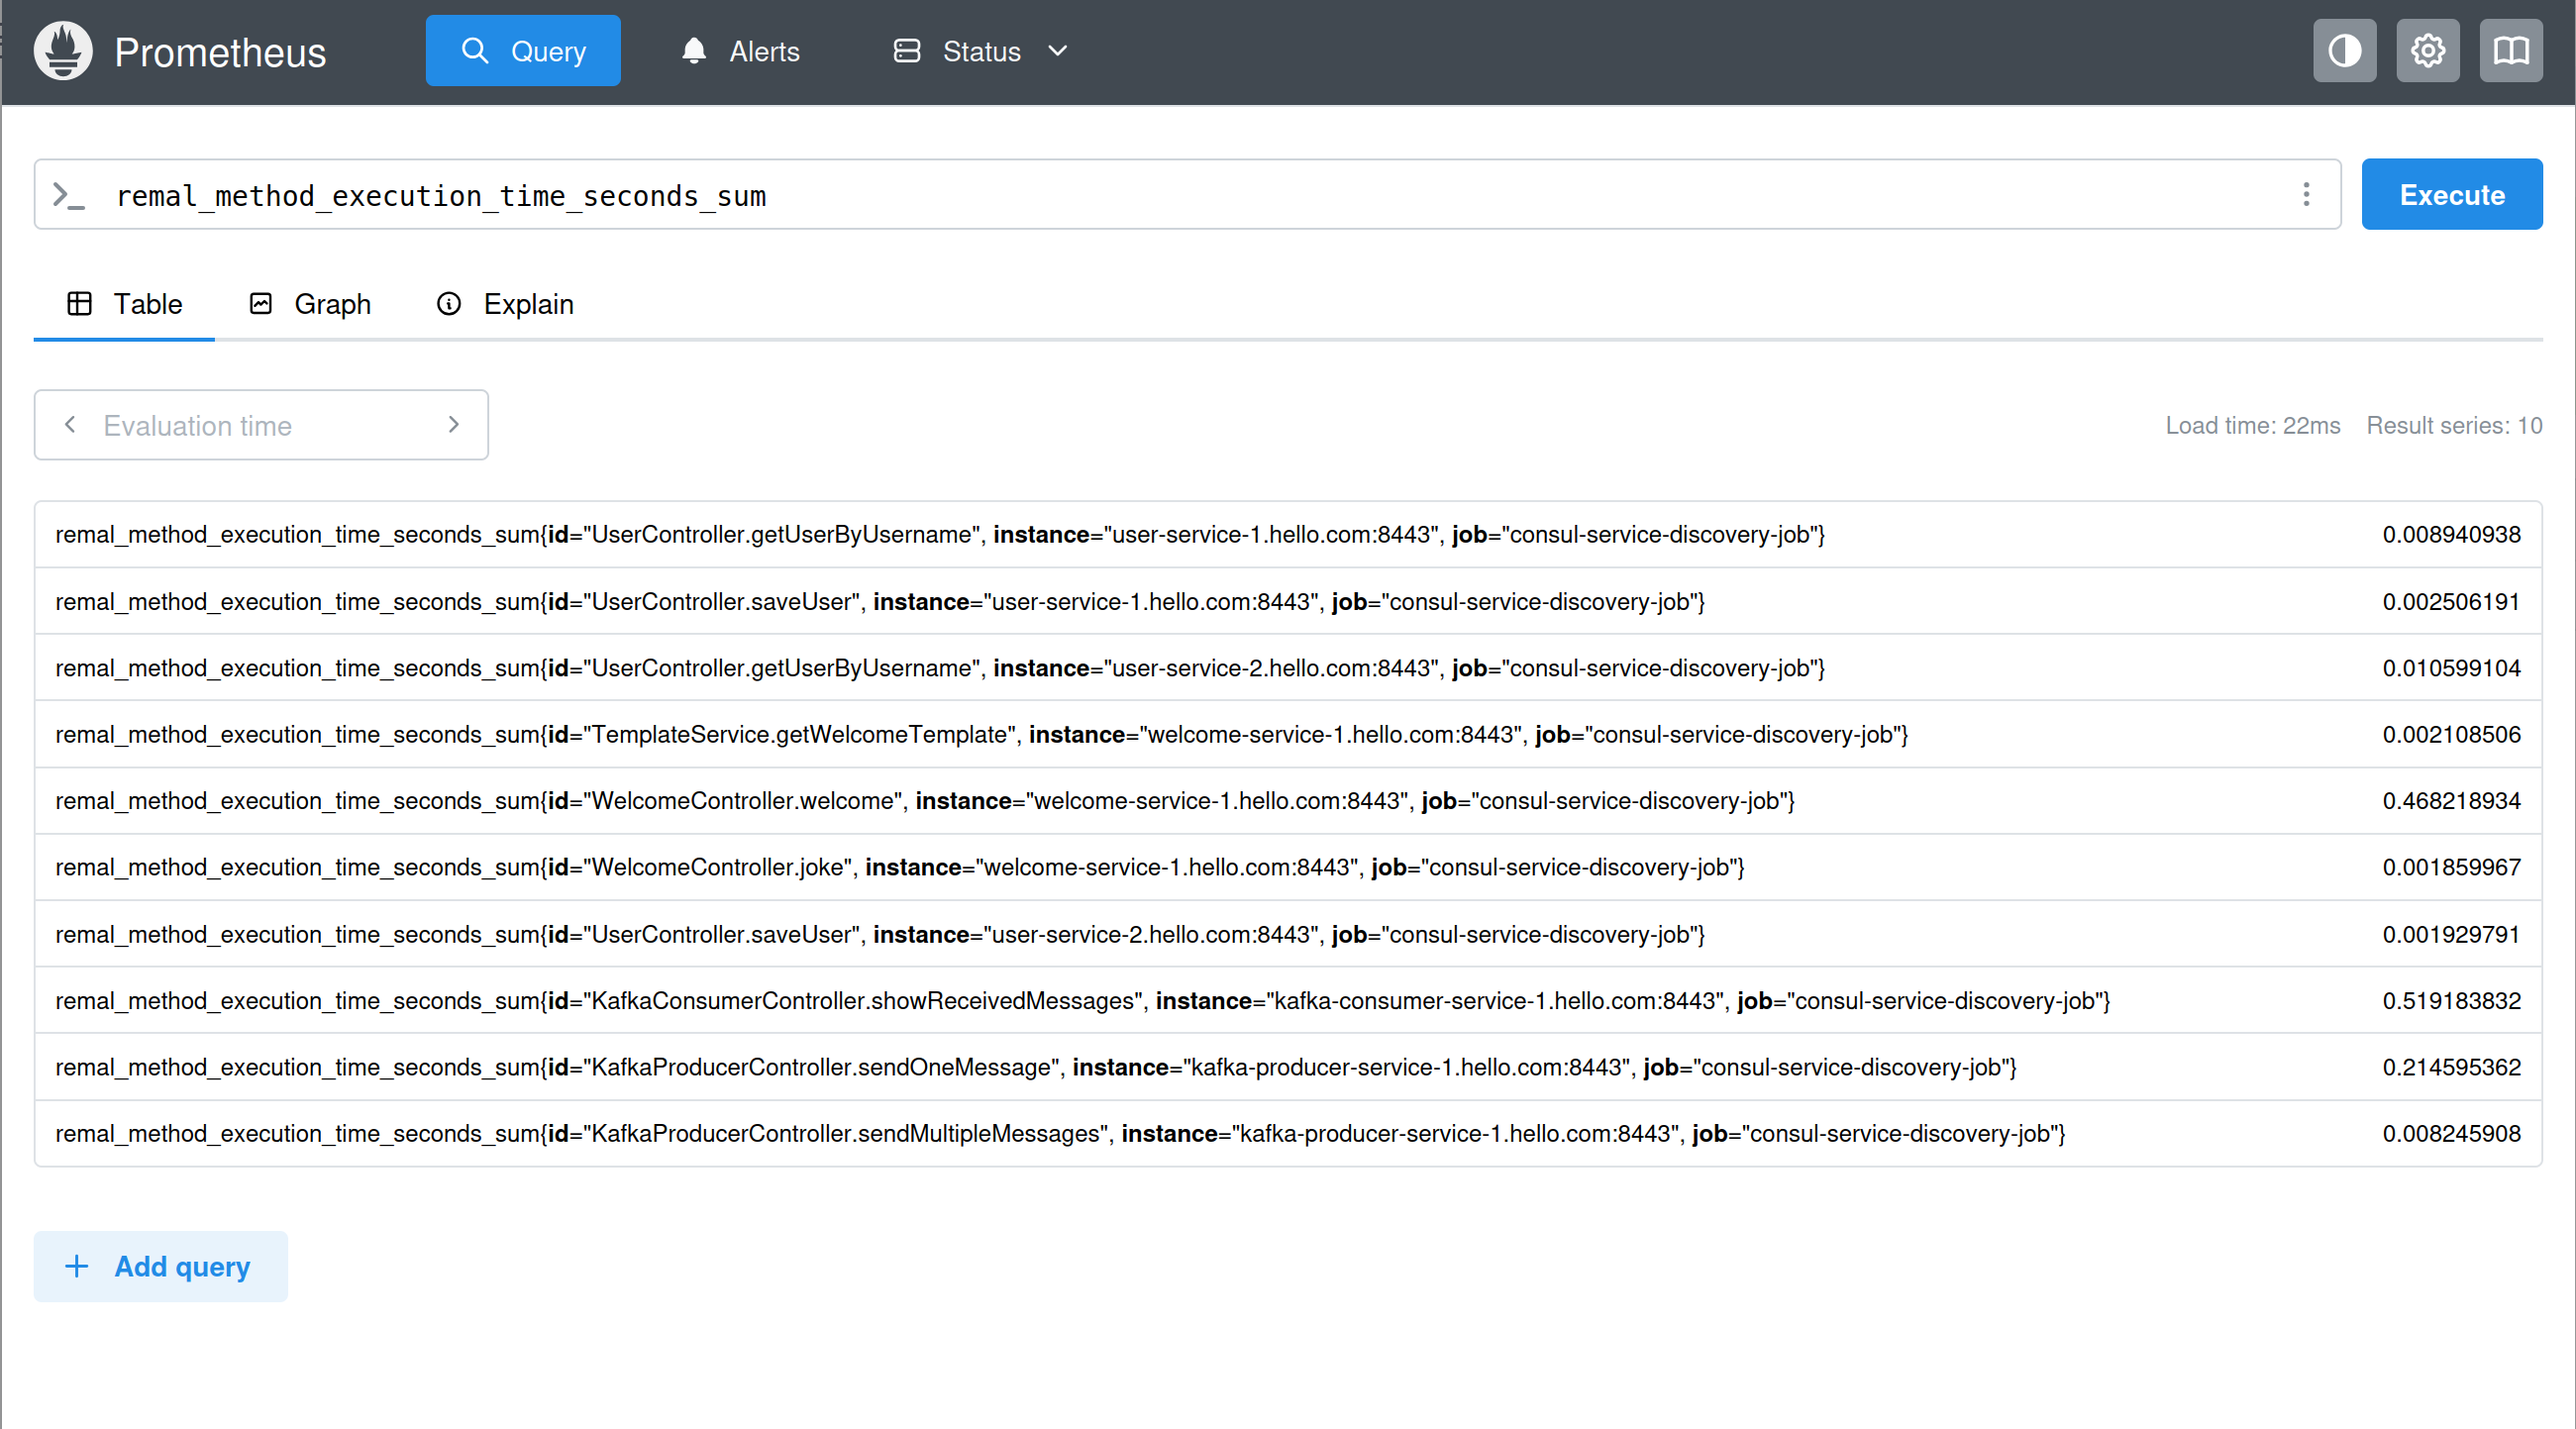
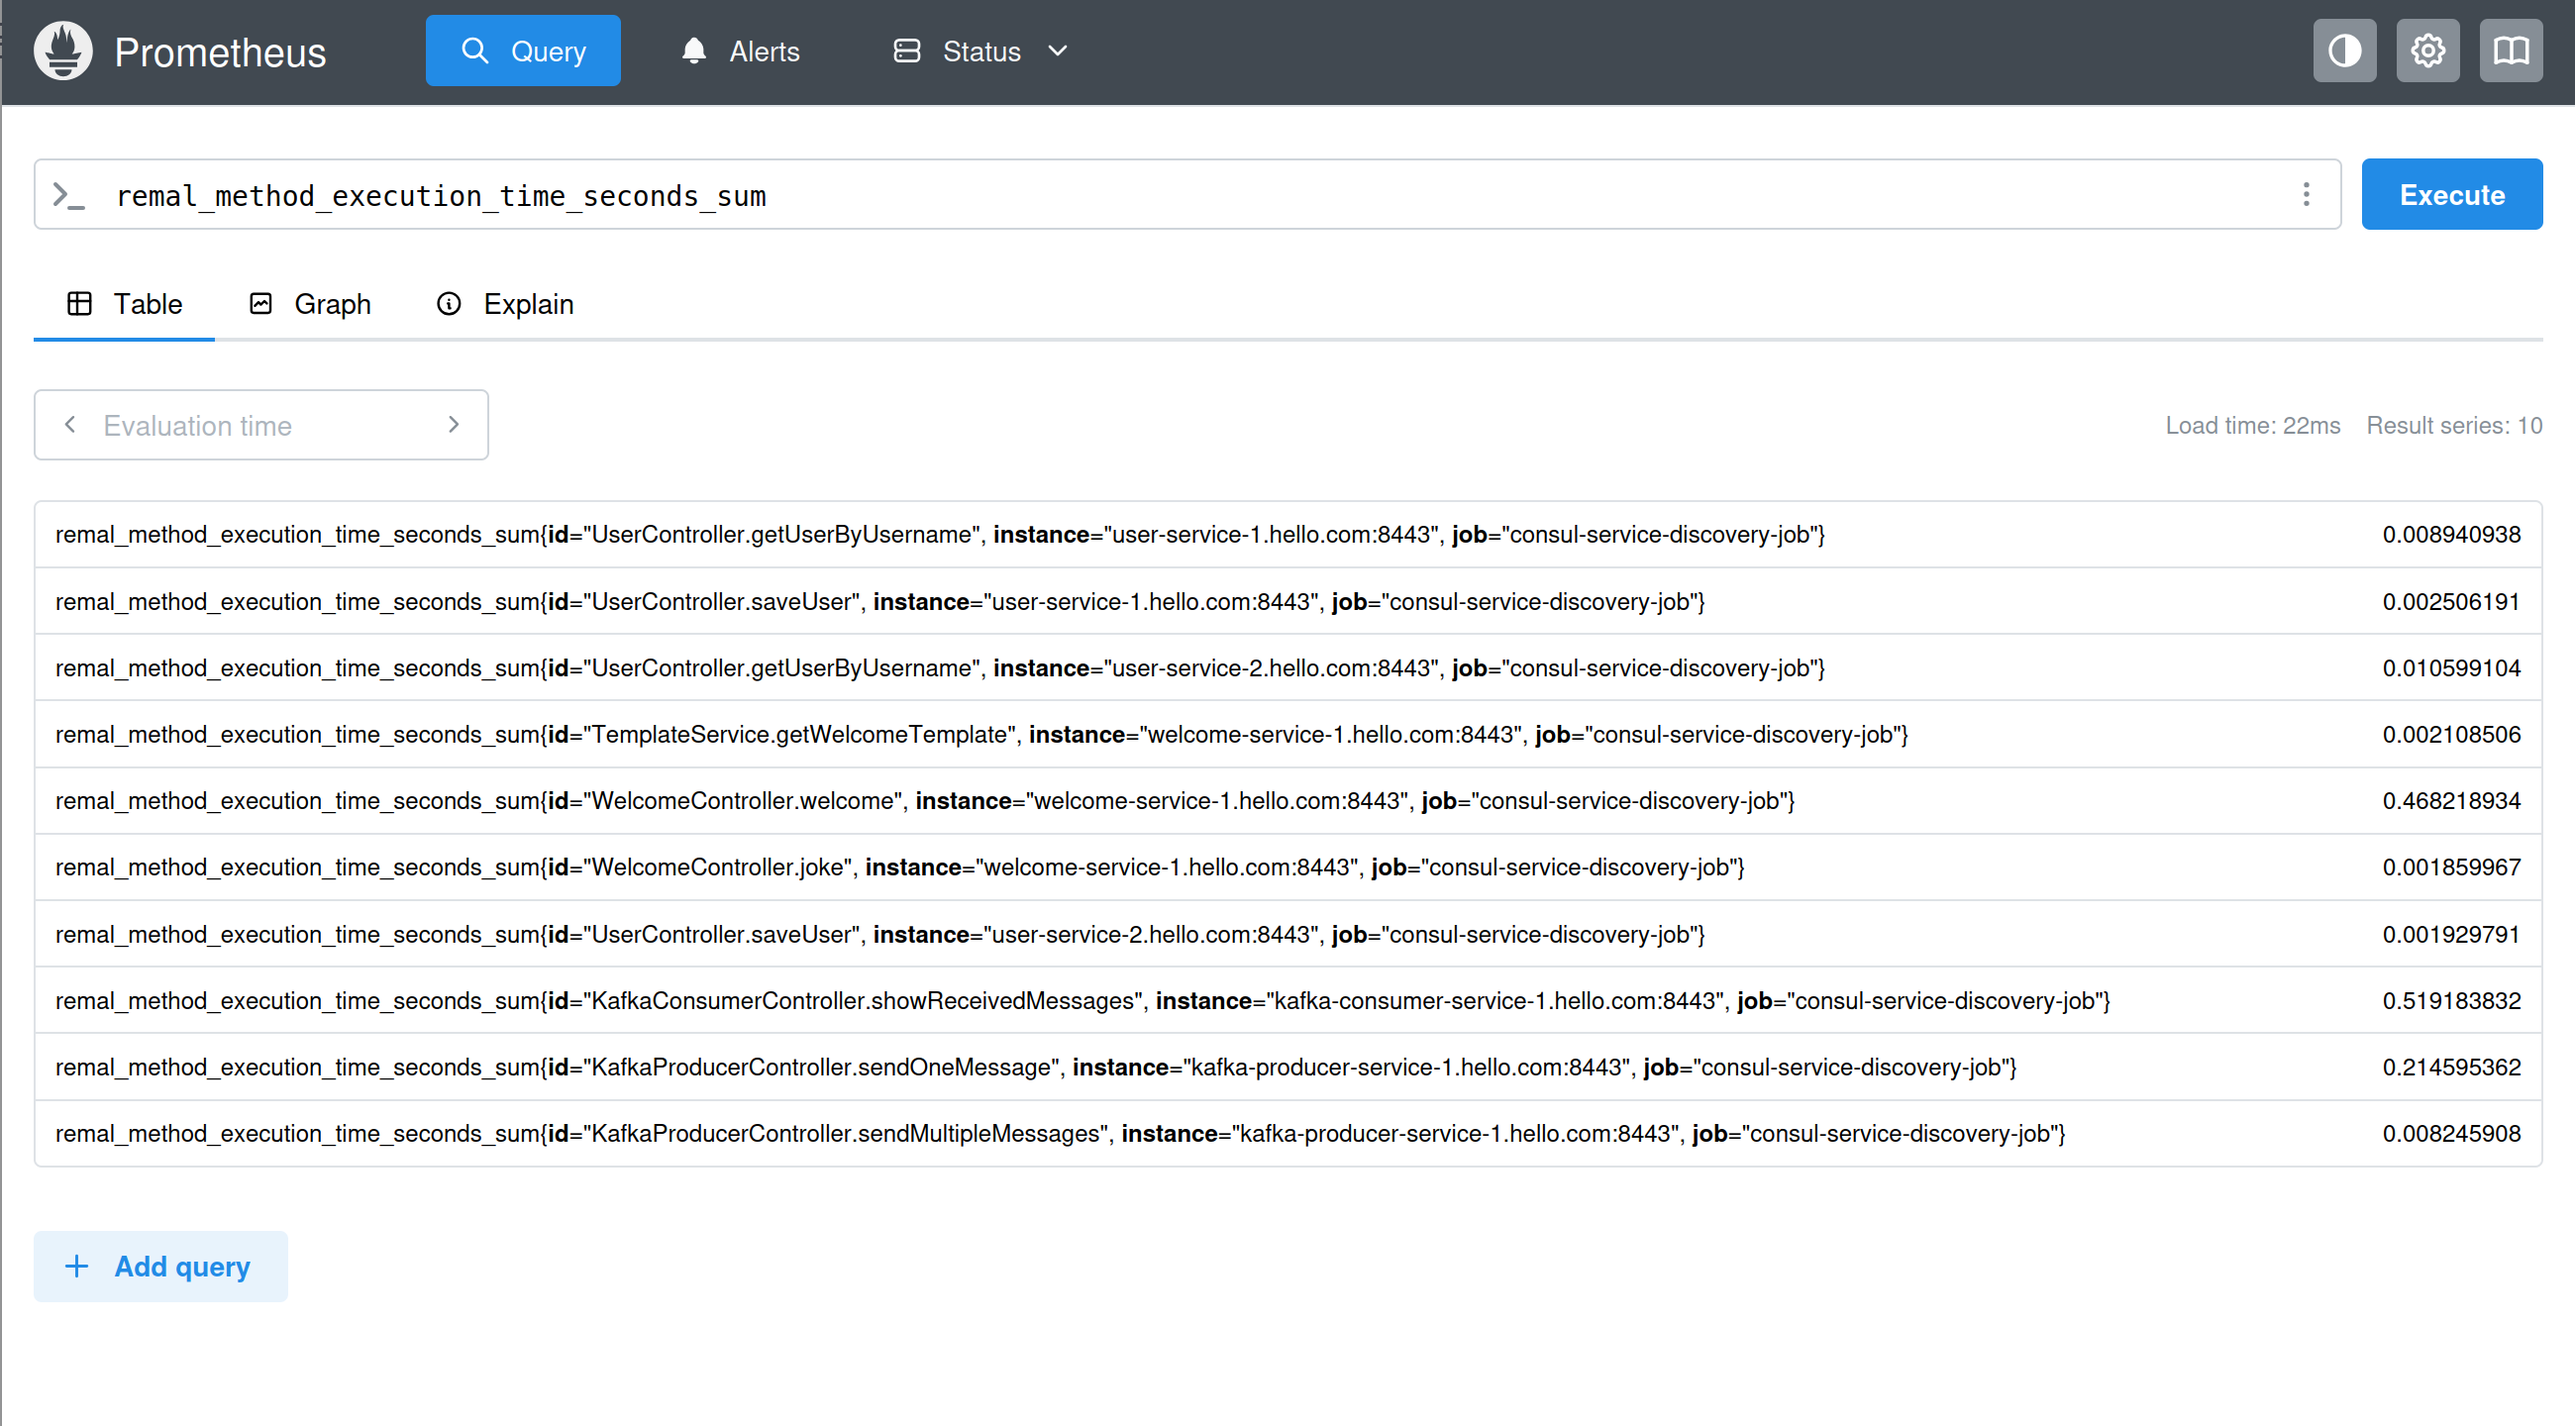
update Spring-Box documentation

diff --git a/docs/_pages/virtualization/docker/spring-box.md b/docs/_pages/virtualization/docker/spring-box.md
@@ -147,12 +147,9 @@ Its advanced design accelerates development velocity by providing pre-configured
 * **Grafana analytics and visualization platform:** Features pre-configured visualization dashboards that transform raw metrics collected by Prometheus into real-time, intuitive charts.
 
 <p float="left">
-  <img src="/assets/images/menu/virtualization/docker/spring-box/prometheus-execution-time-of-rest-calls-graph.png" width="49%" />
-  <img src="/assets/images/menu/virtualization/docker/spring-box/prometheus-execution-time-of-rest-calls-table.png" width="49%" />
+  <img src="/assets/images/menu/virtualization/docker/spring-box/prometheus-execution-time-of-rest-calls-graph.png" alt="Prometheus chart" width="49%" />
+  <img src="/assets/images/menu/virtualization/docker/spring-box/prometheus-execution-time-of-rest-calls-table.png" alt="Prometheus table" width="49%" />
 </p>
-
-![Prometheus chart](/assets/images/menu/virtualization/docker/spring-box/prometheus-execution-time-of-rest-calls-graph.png)
-![Prometheus table](/assets/images/menu/virtualization/docker/spring-box/prometheus-execution-time-of-rest-calls-table.png)
 
 Here is a typical `springbox-openjdk` container configuration.
 Don't worry, we will break down the entire Docker Compose setup in the next section.
